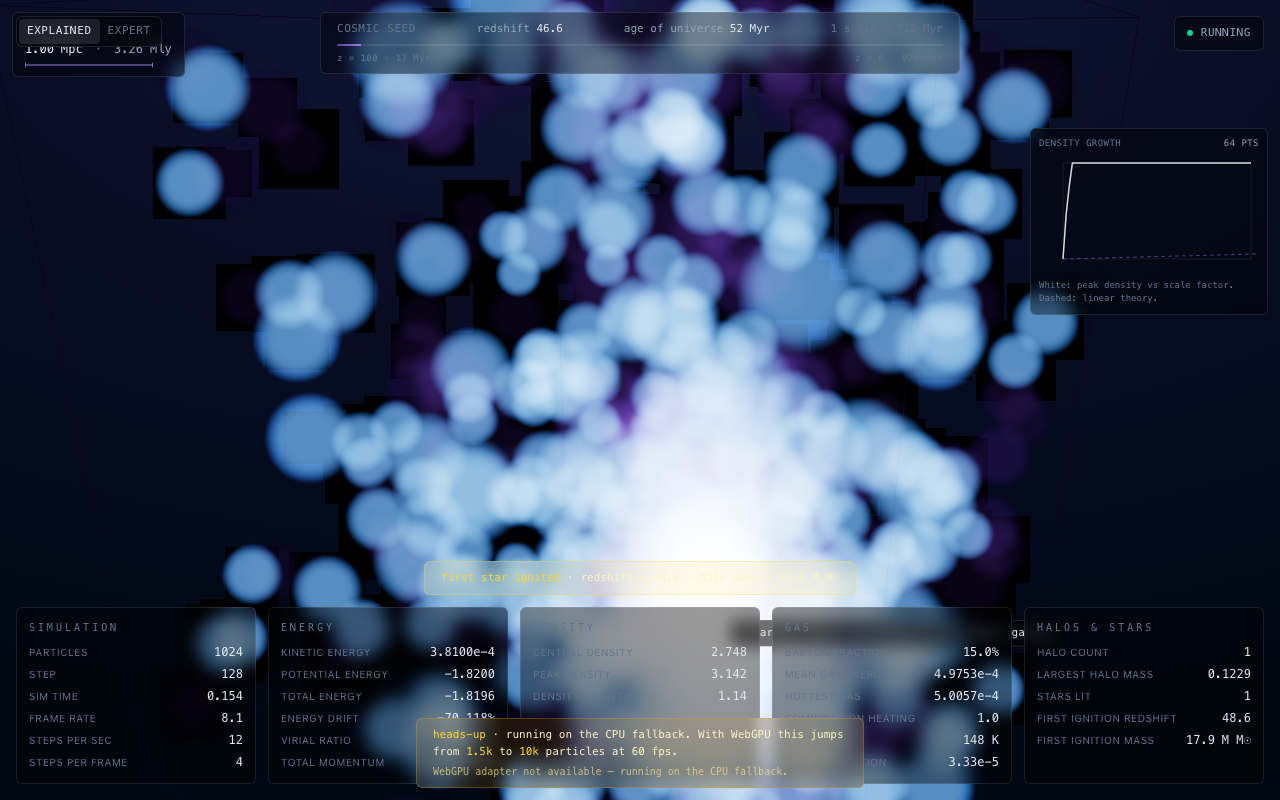
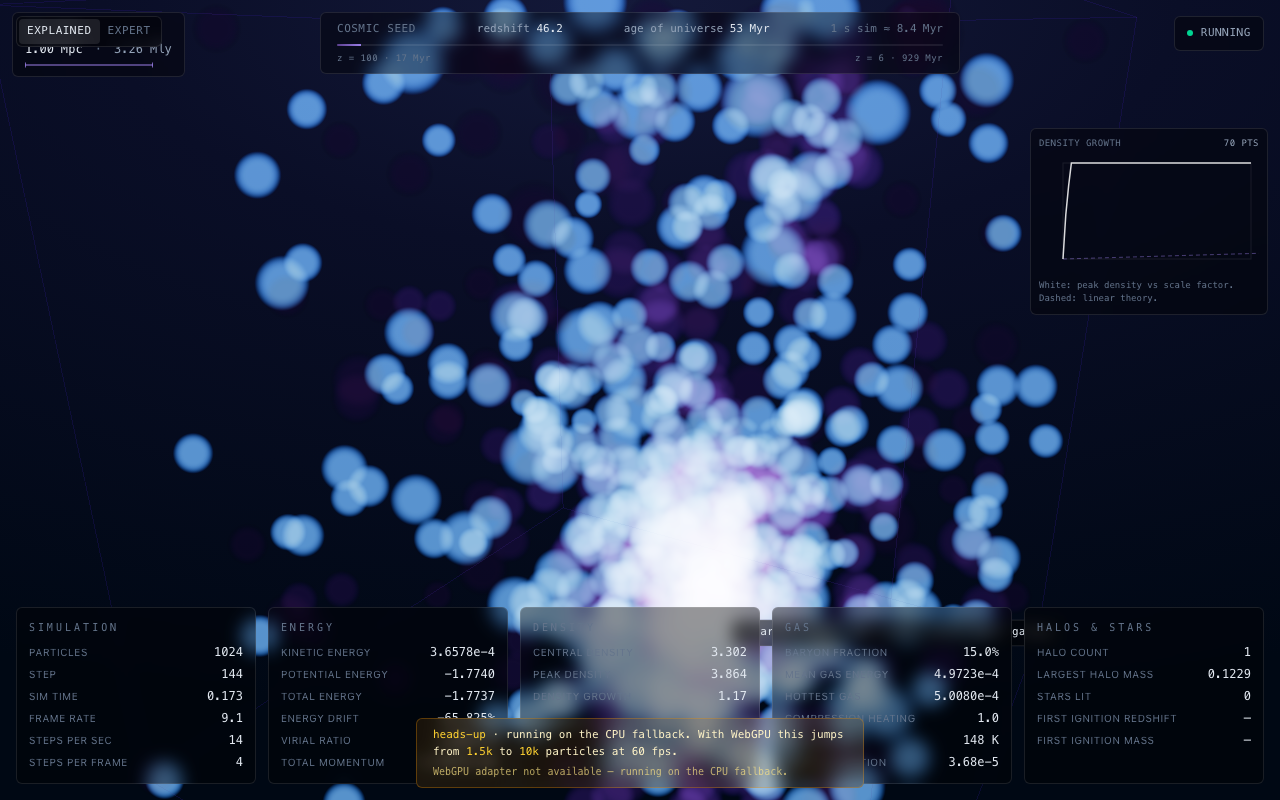
fix(visual): camera-layer selective bloom + ignition z-gate + smaller sprites
User feedback: "кондово, какие-то черные артефакты, всё мельтешит,
куб небольшого размера относительно размеров точек, first ignition
fired at z=47.3".

Three fixes:

1. Selective bloom rewritten on camera layers (rendering/scene.ts).
   The previous material-swap approach replaced DM/gas materials with
   `MeshBasicMaterial({color:0})` during the bloom pass, but
   MeshBasicMaterial doesn't speak THREE.Points' gl_PointSize / sprite
   vocabulary — it rendered each particle as a solid black square at
   default point size. Black squares leaked into the bloom render
   target and (between alpha-channel quirks of the composite shader
   and inter-frame state) showed up as the "black rectangular
   artifacts" the user saw.

   Now `render()` toggles `camera.layers` between BLOOM_LAYER and
   "all layers" between the two passes:
     * camera.layers.set(BLOOM_LAYER) → renderer culls everything
       except stars; bloomComposer renders + blurs stars only.
     * camera.layers.enableAll() → finalComposer renders the full
       scene, then ShaderPass adds the bloom RGB to the base RGB
       (preserving base alpha so canvas transparency is intact),
       then OutputPass tone-maps to sRGB.
   No material swap, no leakage. Composite shader now writes
   `vec4(base.rgb + bloom.rgb, base.a)` instead of plain `base + bloom`
   so the alpha channel doesn't accumulate.

2. Ignition redshift gate (physics/star-ignition.ts).
[…]

diff --git a/src/rendering/scene.ts b/src/rendering/scene.ts
@@ -7,13 +7,19 @@ import { ShaderPass } from 'three/addons/postprocessing/ShaderPass.js';
 import { UnrealBloomPass } from 'three/addons/postprocessing/UnrealBloomPass.js';
 
 /**
- * Layer mask for objects that should bloom. Only the star cloud opts in;
- * DM and gas particle clouds stay on layer 0 only and are rendered as
- * black during the bloom pass so they don't contribute luminance to the
- * blur kernel — UnrealBloomPass would otherwise treat the additive-
- * blended DM density spikes as bloomable, drowning the cosmic web in a
- * single white halo. Three.js examples ship the same selective-bloom
- * pattern (`webgl_postprocessing_unreal_bloom_selective`).
+ * Layer mask for objects that should bloom. Only the star cloud opts in.
+ *
+ * Selective-bloom approach: we run two render passes with the same camera
+ * but different `camera.layers` masks. The bloom pass renders ONLY layer
+ * BLOOM_LAYER (stars), gets blurred by UnrealBloomPass, and writes to a
+ * texture. The final pass renders all layers normally and additively
+ * composites the bloom texture on top.
+ *
+ * No material swaps — the camera-layer filter at the renderer's culling
+ * stage is precise (and side-effect-free) where the swap-and-restore
+ * pattern produces black-square artifacts on `THREE.Points` because
+ * `MeshBasicMaterial` doesn't speak the points' gl_PointSize / sprite
+ * vocabulary.
  */
 export const BLOOM_LAYER = 1;
 
@@ -22,8 +28,8 @@ export interface SceneHandle {
   readonly scene: THREE.Scene;
   readonly camera: THREE.PerspectiveCamera;
   readonly controls: OrbitControls;
-  /** Render the layered bloom pipeline. Replaces the per-frame
-   *  `composer.render()` call from before selective bloom landed. */
+  /** Layered selective-bloom render. Replaces the old per-frame
+   *  `composer.render()`. */
   render(): void;
   resize(width: number, height: number, dpr: number): void;
   dispose(): void;
@@ -44,7 +50,9 @@ const COMPOSITE_FRAG = /* glsl */ `
   void main() {
     vec4 base = texture2D(baseTexture, vUv);
     vec4 bloom = texture2D(bloomTexture, vUv);
-    gl_FragColor = base + bloom;
+    // Add bloom RGB to base RGB; preserve base alpha so the canvas keeps
+    // its transparency for any non-rendered pixels.
+    gl_FragColor = vec4(base.rgb + bloom.rgb, base.a);
   }
 `;
 
@@ -67,8 +75,10 @@ export function createScene(canvas: HTMLCanvasElement): SceneHandle {
   // viewport shows the interior of the simulated volume.
   camera.position.set(0.7, 0.45, 1.05);
   camera.lookAt(0, 0, 0);
-  // Camera renders all layers; the bloom-pass swap happens at the material
-  // level, not via camera layers.
+  // The render loop swaps `camera.layers` between BLOOM_LAYER (during the
+  // bloom pass) and "all layers" (during the final pass). We start in the
+  // all-layers state so any external code peeking at the camera gets the
+  // expected default.
   camera.layers.enableAll();
 
   const controls = new OrbitControls(camera, canvas);
@@ -82,23 +92,7 @@ export function createScene(canvas: HTMLCanvasElement): SceneHandle {
   controls.autoRotate = true;
   controls.autoRotateSpeed = 0.45; // ≈ 1 rev / 90 s
 
-  // --- Selective-bloom pipeline ----------------------------------------
-  //
-  // Two composers chain like so:
-  //
-  //   bloomComposer:  RenderPass (with non-bloom objects darkened)
-  //                 → UnrealBloomPass (writes its blurred output to
-  //                                    bloomComposer.renderTarget2)
-  //
-  //   finalComposer:  RenderPass (full scene, normal materials)
-  //                 → composite ShaderPass (adds bloomComposer's texture)
-  //                 → OutputPass (tone map + sRGB)
-  //
-  // Per frame we traverse the scene once to swap non-BLOOM_LAYER objects'
-  // materials to a black MeshBasicMaterial, render bloomComposer, restore
-  // materials, render finalComposer. Cost: one extra RenderPass + the
-  // bloom passes' downsamples. At 4 k DM particles this is well inside
-  // budget (the bloom kernel is 5 mips of 1280×800 quads).
+  // --- Bloom composer: renders only BLOOM_LAYER objects through a blur ---
 
   const bloomComposer = new EffectComposer(renderer);
   bloomComposer.renderToScreen = false;
@@ -107,12 +101,14 @@ export function createScene(canvas: HTMLCanvasElement): SceneHandle {
     new THREE.Vector2(1, 1),
     /* strength */ 1.1,
     /* radius   */ 0.55,
-    // Threshold can drop now that DM/gas are pre-darkened: stars are the
-    // only luminance left in the bloom render, so a low threshold gives
-    // them headroom to glow while costing nothing on the dark cloud.
+    // Threshold can be 0 because the bloom pass renders only layer 1
+    // (stars). DM and gas are simply not rendered there — they don't need
+    // to be darkened or thresholded out.
     /* threshold*/ 0.0,
   );
   bloomComposer.addPass(bloom);
+
+  // --- Final composer: full scene + bloom-overlay composite -----------
 
   const compositePass = new ShaderPass(
     new THREE.ShaderMaterial({
@@ -133,34 +129,16 @@ export function createScene(canvas: HTMLCanvasElement): SceneHandle {
   finalComposer.addPass(compositePass);
   finalComposer.addPass(new OutputPass());
 
-  // --- Material swap for the bloom pass --------------------------------
-
-  const bloomLayer = new THREE.Layers();
-  bloomLayer.set(BLOOM_LAYER);
-  const darkMaterial = new THREE.MeshBasicMaterial({ color: 0x000000 });
-  const stashedMaterials = new Map<string, THREE.Material | THREE.Material[]>();
-
-  function darkenIfNotBloom(obj: THREE.Object3D): void {
-    // Points + Mesh + Line all expose `.material`. Skip anything else.
-    const candidate = obj as THREE.Object3D & { material?: THREE.Material | THREE.Material[] };
-    if (candidate.material === undefined) return;
-    if (bloomLayer.test(obj.layers)) return; // opted-in, leave bright
-    stashedMaterials.set(obj.uuid, candidate.material);
-    candidate.material = darkMaterial;
-  }
-
-  function restoreMaterial(obj: THREE.Object3D): void {
-    const stashed = stashedMaterials.get(obj.uuid);
-    if (stashed === undefined) return;
-    const candidate = obj as THREE.Object3D & { material: THREE.Material | THREE.Material[] };
-    candidate.material = stashed;
-    stashedMaterials.delete(obj.uuid);
-  }
-
   const render = (): void => {
-    scene.traverse(darkenIfNotBloom);
+    // Bloom pass: camera sees only layer BLOOM_LAYER. DM, gas, box-frame —
+    // none of them are on this layer, so RenderPass renders nothing for
+    // them. Stars opt in (`object.layers.enable(BLOOM_LAYER)`), get
+    // rendered, then UnrealBloomPass blurs the result.
+    camera.layers.set(BLOOM_LAYER);
     bloomComposer.render();
-    scene.traverse(restoreMaterial);
+    // Final pass: camera sees all layers, normal scene render, then
+    // additively composite the bloom texture, then tone-map to sRGB.
+    camera.layers.enableAll();
     finalComposer.render();
   };
 
@@ -181,7 +159,6 @@ export function createScene(canvas: HTMLCanvasElement): SceneHandle {
     controls.dispose();
     bloomComposer.dispose();
     finalComposer.dispose();
-    darkMaterial.dispose();
     renderer.dispose();
   };
 

diff --git a/src/physics/star-ignition.ts b/src/physics/star-ignition.ts
@@ -25,6 +25,16 @@ export interface IgnitionParams {
   readonly v_bc: number;
   /** Code-unit mass that corresponds to 1 M☉ — multiplies the formula's M☉. */
   readonly unitMassPerMsun: number;
+  /**
+   * Maximum redshift at which ignition is allowed. Defaults to 30 — the
+   * Kulkarni+2021 fit is calibrated on z ∈ [10, 20] and extrapolates
+   * unphysically high (smaller M_crit) at z ≫ 20, while the Zeldovich IC
+   * already contains visibly clumpy overdensities at z = 50. Without
+   * this gate, FoF + Kulkarni produce "first ignition" reports at z ≈ 47
+   * the moment the halo finder fires, blowing the educational beat that
+   * stars light up *during* a viewable run.
+   */
+  readonly maxIgnitionRedshift?: number;
 }
 
 export function criticalHaloMass(z: Redshift, p: IgnitionParams): number {
@@ -98,6 +108,9 @@ export function igniteEligibleHalos(
 ): IgnitionResult {
   const newStars: Star[] = [];
   const newlyLit: number[] = [];
+  const zNum = asNumber(z);
+  const zCap = params.maxIgnitionRedshift ?? 30;
+  if (zNum > zCap) return { newStars, newlyLit };
   const mCrit = criticalHaloMass(z, params);
   for (let i = 0; i < halos.length; i += 1) {
     const halo = halos[i];

diff --git a/src/rendering/star-cloud.ts b/src/rendering/star-cloud.ts
@@ -66,7 +66,10 @@ export function createStarCloud(maxStars: number, dpr: number): StarCloud {
     vertexShader: VERT_SHADER,
     fragmentShader: FRAG_SHADER,
     uniforms: {
-      uPointSize: { value: 280.0 },
+      // Selective bloom on layer 1 already amplifies the glow; the sprite
+      // itself stays modest so stars don't look like cardboard cutouts at
+      // close camera angles.
+      uPointSize: { value: 160.0 },
       uPixelRatio: { value: Math.min(dpr, 2) },
     },
     transparent: true,

diff --git a/src/rendering/particle-cloud.ts b/src/rendering/particle-cloud.ts
@@ -76,7 +76,7 @@ export function createParticleCloud(count: number, dpr: number): ParticleCloud {
     vertexShader: VERT_SHADER,
     fragmentShader: FRAG_SHADER,
     uniforms: {
-      uPointSize: { value: 90.0 },
+      uPointSize: { value: 60.0 },
       uPixelRatio: { value: Math.min(dpr, 2) },
       uColorLo: { value: new THREE.Color('#2a1b3d') },
       uColorMid: { value: new THREE.Color('#5b3f8e') },

diff --git a/src/rendering/gas-cloud.ts b/src/rendering/gas-cloud.ts
@@ -76,7 +76,7 @@ export function createGasCloud(gasCount: number, dpr: number): GasCloud {
     vertexShader: VERT_SHADER,
     fragmentShader: FRAG_SHADER,
     uniforms: {
-      uPointSize: { value: 90.0 },
+      uPointSize: { value: 55.0 },
       uPixelRatio: { value: Math.min(dpr, 2) },
       uTempMin: { value: 1e-3 },
       uTempMax: { value: 1.0 },
